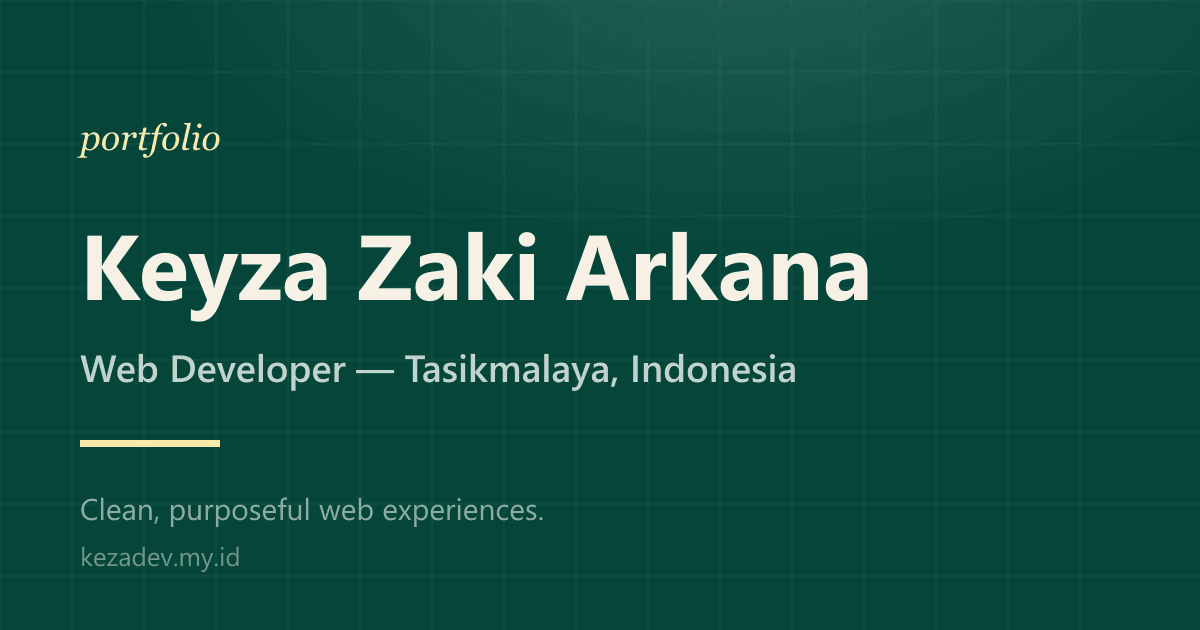
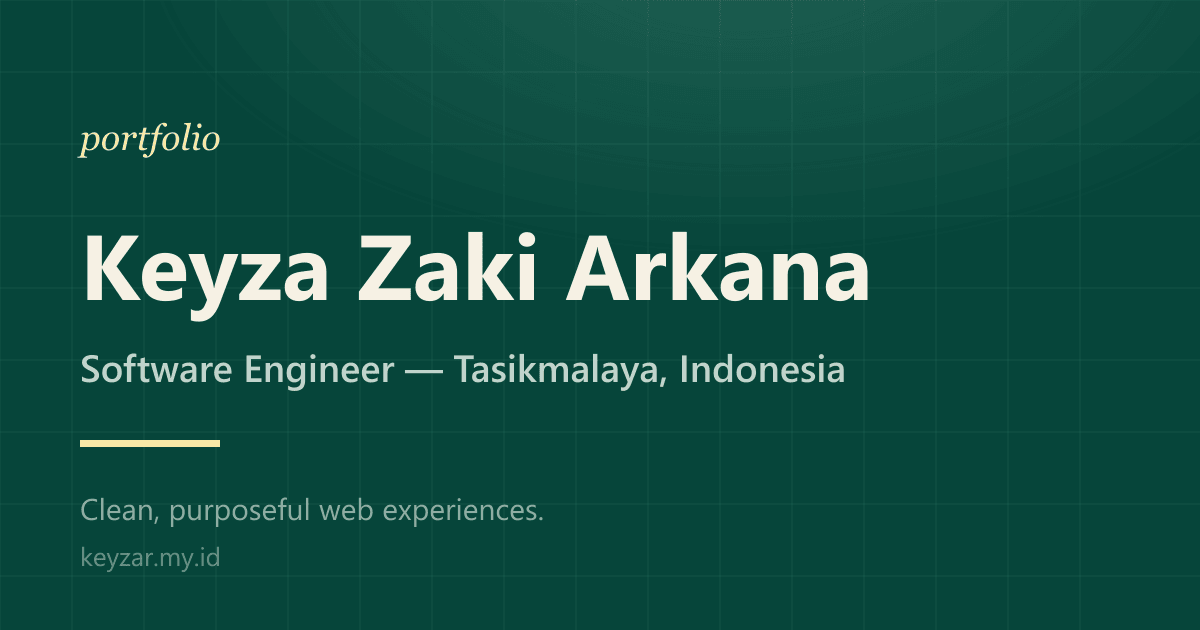
content: rename the role to Software Engineer
- the visible role, page metadata, llms.txt, the web manifest and the OG image
- the blog front-matter notes that mention the internship

Changed region(s): [[0.0617, 0.5429, 0.7092, 0.6333], [0.0925, 0.8746, 0.2158, 0.9048]]

diff --git a/nuxt.config.ts b/nuxt.config.ts
@@ -3,7 +3,7 @@ import tailwindcss from "@tailwindcss/vite";
 const SITE_URL = process.env.NUXT_PUBLIC_SITE_URL || "https://keyzar.my.id";
 const SITE_NAME = "Keyza Zaki Arkana";
 const SITE_DESCRIPTION =
-  "Portfolio of Keyza Zaki Arkana — a web developer based in Tasikmalaya, Indonesia, specializing in modern and high-performance web applications.";
+  "Portfolio of Keyza Zaki Arkana — a software engineer based in Tasikmalaya, Indonesia, specializing in modern and high-performance web applications.";
 
 export default defineNuxtConfig({
   compatibilityDate: "2025-07-15",
@@ -108,7 +108,7 @@ export default defineNuxtConfig({
       type: 'Person',
       name: SITE_NAME,
       description: SITE_DESCRIPTION,
-      jobTitle: 'Web Developer',
+      jobTitle: 'Software Engineer',
       email: 'mailto:keyzazakiarkana08@gmail.com',
       image: `${SITE_URL}/og-image.png`,
       sameAs: [

diff --git a/content/blog/en/keyza-zaki-arkana-lks-pplg-2025.md b/content/blog/en/keyza-zaki-arkana-lks-pplg-2025.md
@@ -30,7 +30,7 @@ sources:
 #   - LKS Web Technology 2026, city level, 1st place
 #   - LKS West Java provincial level 2026, 6th place
 #   - IoT competition, 1st place (school Electrical Engineering department)
-#   - Web developer internship at CV Access Media
+#   - Software engineer internship at CV Access Media
 ---
 
 On Saturday, 26 April 2025, the MGMP (Subject Teacher Working Group) of Kota Tasikmalaya held its Lomba Kompetensi Siswa (LKS) for the Pengembangan Perangkat Lunak dan Gim (PPLG) program at SMK BPN Tasikmalaya. The event ran in two categories: Web Technology, where participants built a web-based application, and IT Software, where they developed an operating-system-based program.

diff --git a/content/blog/id/keyza-zaki-arkana-lks-pplg-2025.md b/content/blog/id/keyza-zaki-arkana-lks-pplg-2025.md
@@ -30,7 +30,7 @@ sources:
 #   - LKS Web Technology 2026, tingkat kota, juara 1
 #   - LKS tingkat Provinsi Jawa Barat 2026, juara 6
 #   - Kompetisi IoT, juara 1 (jurusan Teknik Listrik sekolah)
-#   - Magang web developer di CV Access Media
+#   - Magang software engineer di CV Access Media
 ---
 
 Pada Sabtu, 26 April 2025, MGMP (Musyawarah Guru Mata Pelajaran) Kota Tasikmalaya menggelar Lomba Kompetensi Siswa (LKS) untuk program keahlian Pengembangan Perangkat Lunak dan Gim (PPLG) di SMK BPN Tasikmalaya. Lomba berjalan dalam dua kategori: Web Technology, yang menuntut peserta membuat aplikasi berbasis web, dan IT Software, yang menuntut peserta mengembangkan program berbasis sistem operasi.
